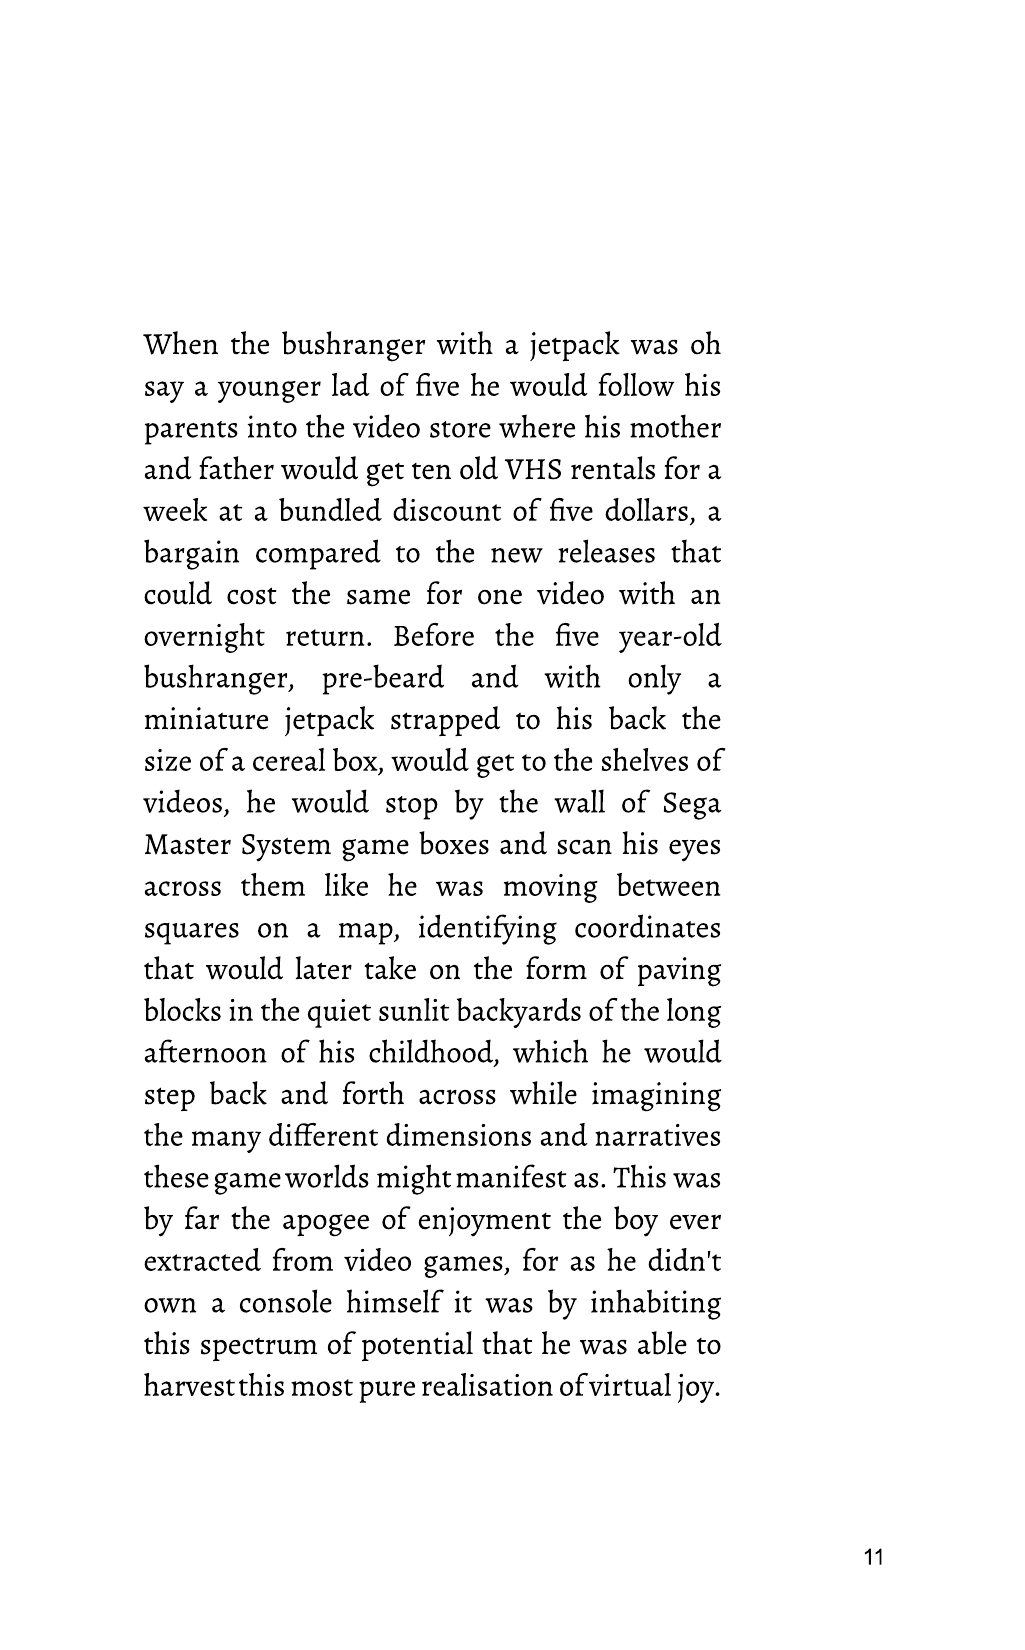
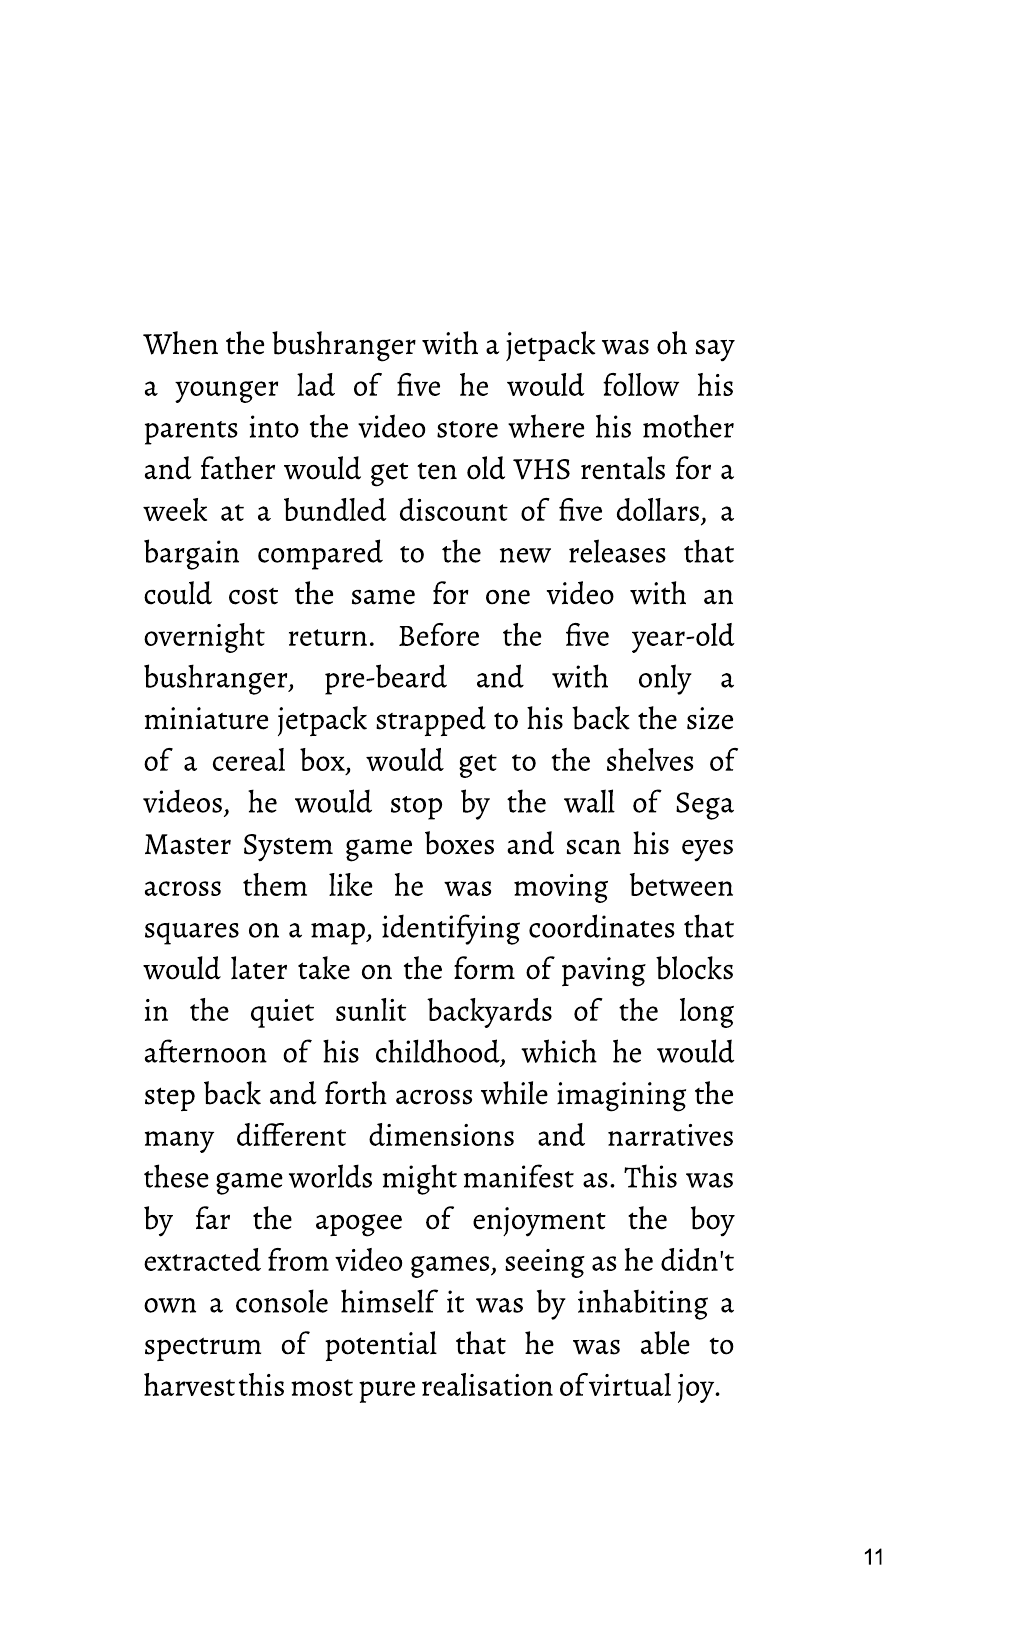
Progress: refresh pages from TMAPO_July2026b export (39 pages)

Changed region(s): [[0.1249, 0.1855, 0.718, 0.8345]]

diff --git a/progress/index.html b/progress/index.html
@@ -374,6 +374,8 @@
             'pages/Page%2035.png',
             'pages/Page%2036.png',
             'pages/Page%2037.png',
+            'pages/Page%2038.png',
+            'pages/Page%2039.png',
         ];
 
         const MOBILE_BREAKPOINT = 768;
